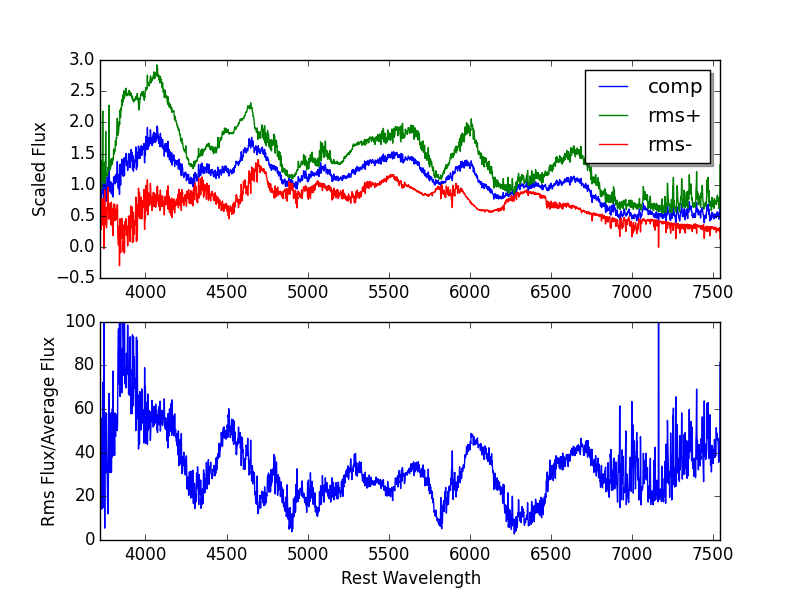
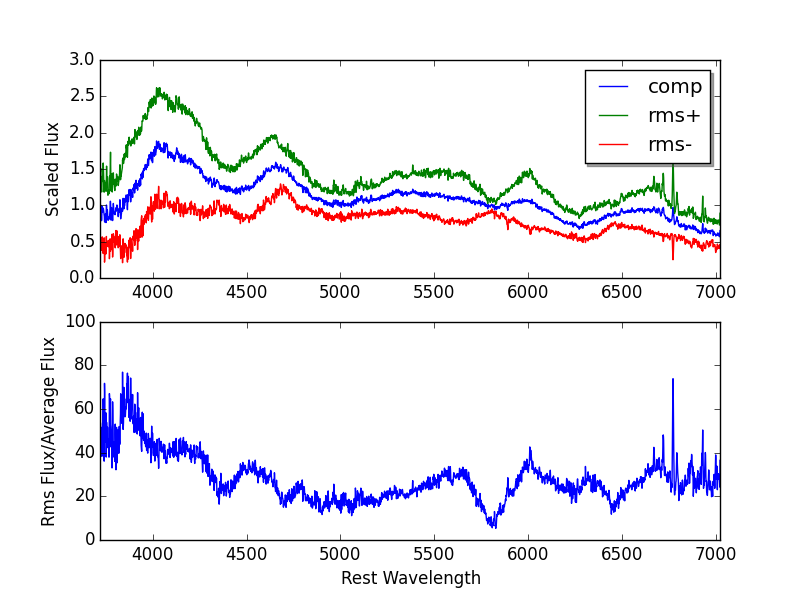
Update plots and galaxy composite code to create composites for each galaxy type, including irregular

diff --git a/personal/MalloryConlon/Galaxy/galaxycomp.py b/personal/MalloryConlon/Galaxy/galaxycomp.py
@@ -15,7 +15,7 @@ spectra_arrays=[]
 spectra_names=[]
 bad_files=[]
 
-num=1000	#number of spectra to analyse, eventually will be len(spectra_files)
+num=len(spectra_files)	#number of spectra to analyse, eventually will be len(spectra_files)
 
 for i in range(num):
 	spectrum_file=spectra_files[i]
